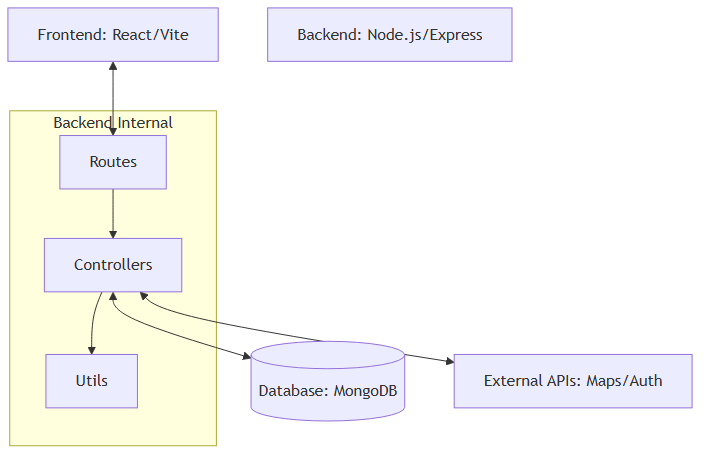
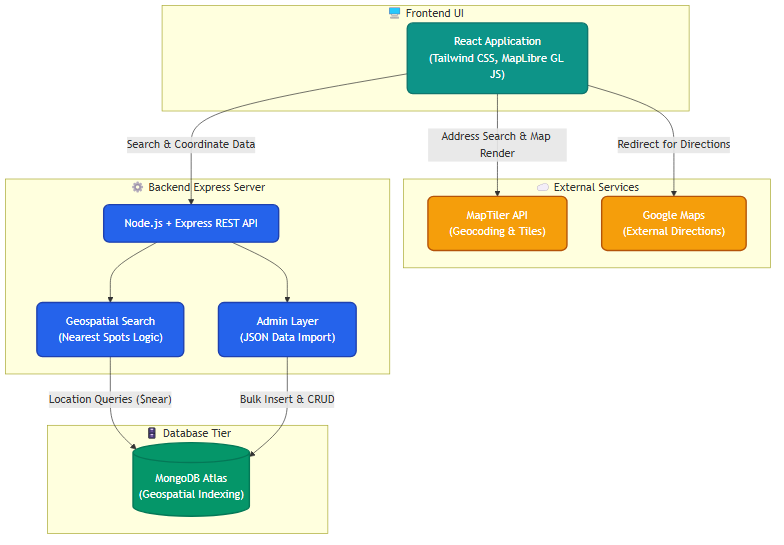
updated md..

diff --git a/README.md b/README.md
@@ -19,10 +19,9 @@ Rendered image:
 
 ![Architecture Diagram](docs/architecture.png)
 
-
 ## Tech stack
-- Frontend: React, Tailwind CSS, Google Maps API, Axios
-- Backend: Node.js, Express, MongoDB Atlas, Mongoose, Multer
+- Frontend: React, Tailwind CSS, MapLibre GL JS, MapTiler, Axios
+- Backend: Node.js, Express, MongoDB Atlas, Mongoose
 
 ## API overview
 - Public:
